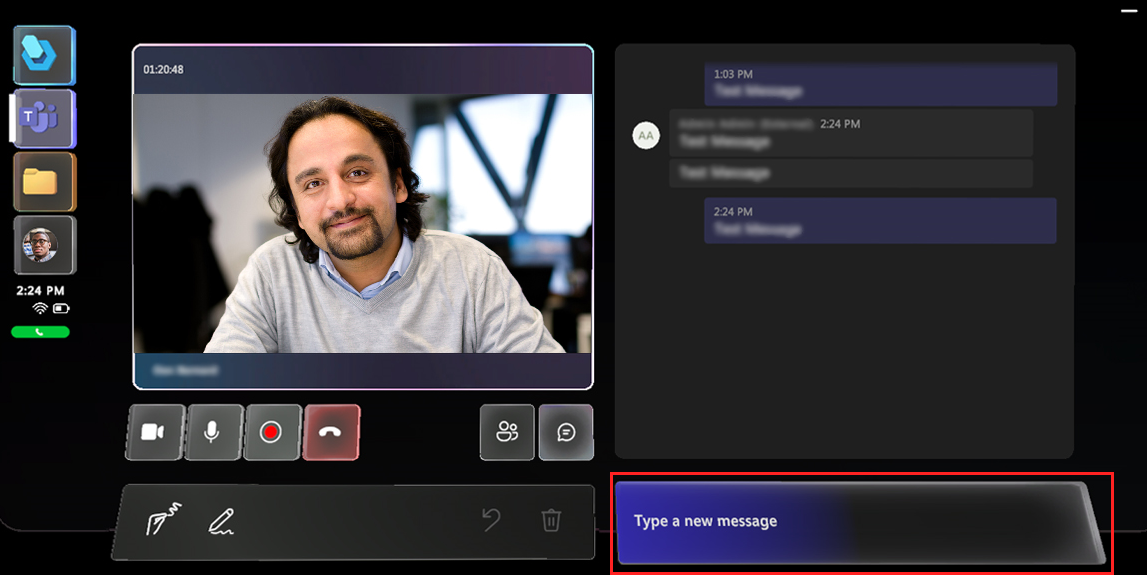
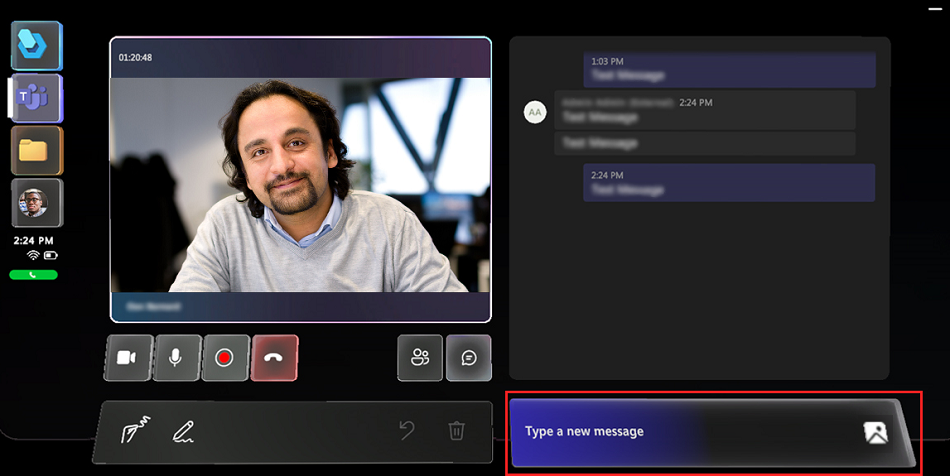
Add screens and review comments

diff --git a/mr-docs/guides/calling-photos.md b/mr-docs/guides/calling-photos.md
@@ -11,11 +11,11 @@ ms.custom: bap-template
 
 # Capture and share photos
 
-HoloLens users can take photos and share photos during a call or meeting.
+HoloLens users can take photos at any time and share photos through chat during a call or meeting.
 
 ## Take a photo
 
-You can take a photo of your mixed reality annotations during a call or take a photo of a piece of equipment to share. For example, send a photo to your remote collaborators so that they can clearly see an intricate part of the machine or a machine tag with small characters. You can take a photo at any time with the HoloLens, even when Guides is closed.
+You can take a photo of your mixed reality annotations during a call or take a photo of a piece of equipment to share. For example, send a photo to your remote collaborators so that they can clearly see an intricate part of the machine or a machine tag with small characters. You can take a photo at any time with the HoloLens, even when Guides is closed. The photo includes anything you can see through your HoloLens at the time you take the photo, including holograms.
 
 To take a picture of your current view in the HoloLens, press the volume up and volume down buttons on your HoloLens at the same time (or say, "Take a picture” or “Take a photo”). The photo is saved to the device. For more information, see [Capture a mixed reality photo](/hololens/holographic-photos-and-videos#capture-a-mixed-reality-photo).
 
@@ -23,15 +23,21 @@ To take a picture of your current view in the HoloLens, press the volume up and 
 
 HoloLens users can share photos from the HoloLens device during a call or meeting directly within chat.
 
-1. While [on a call](calling-start-call.md) or meeting, select the **Chat** button.
+1. While [on a call](calling-start-call.md) or meeting, select the **Chat** :::image type="icon" source="media/chat-button.png"::: button.
 
    A new Chat window appears to the right of the video feed.
 
+   :::image type="content" source="media/calling-chat-file-sharing-3.png" alt-text="Screenshot highlighting where to enter message and Gallery icon":::
+
 1. In the message window, select the **Gallery** icon. The images from your device display.
 
-1. Use the scroll up and down arrows to scroll through your images. Select the images you want to share, up to 6, and then select **Next**. The selected files are uploaded.
+1. Use the scroll up and down arrows to scroll through your images. Select the images you want to share, up to 6.
 
-After the files are uploaded, a sent message displays and the photos are shared in the chat with others on the call.
+   :::image type="content" source="media/calling-chat-share-photos.png" alt-text="Screenshot showing selected photos from the HoloLens camera roll":::
+
+1. Select the **Next** icon. The selected files are uploaded.
+
+   After the files are uploaded, a sent message displays and the photos are shared in the chat with others on the call.
 
 > [!TIP]
 > All call participants at the time the photos are shared have read permission. Participants joining later may not be able to access the photos. If they can’t access the photos, they are prompted to request permission to gain access to the photos.

diff --git a/mr-docs/guides/main-menu.md b/mr-docs/guides/main-menu.md
@@ -22,7 +22,7 @@ The following table describes each button on the **Main** menu.
 |Button|Description|
 |--------|-------------------------------------------------------------------------------------------------|
 |![Work activity button.](media/main-menu-work-activity1-button.JPG "Work activity button")|Select and open a guide or search for a guide.|
-|![Communications button.](media/main-menu-communications1-button.JPG "Communications button")|Call a Microsoft Teams collaborator. When you're on a call, you can chat, share files, screens, or annotations, and record the call.|
+|![Teams button.](media/main-menu-communications1-button.JPG "Teams button")|Call a Microsoft Teams collaborator. When you're on a call, you can chat, share files, screens, or annotations, and record the call.|
 |![Files button.](media/main-menu-files1-button.JPG "Settings button")|Open a OneDrive for Business file. |
 |![Profile button.](media/main-menu-profile1-button.JPG "Profile button")| Access your profile settings or sign out.|
 

diff --git a/mr-docs/guides/calling-start-call.md b/mr-docs/guides/calling-start-call.md
@@ -19,9 +19,9 @@ Start a call from your HoloLens. See [Types of calls](calling-concepts.md) for m
 
 ### Start a one-to-one call with a Teams contact in your organization
 
-1. Look at the palm of your hand to open the **Main** menu, and then select the **Communications** button.
+1. Look at the palm of your hand to open the **Main** menu, and then select the **Teams** button.
 
-   :::image type="content" source="media/calling-meetings-1.JPG" alt-text="Screenshot of Communications button on Main menu.":::
+   :::image type="content" source="media/calling-meetings-1.JPG" alt-text="Screenshot of Teams button on Main menu.":::
 
 1. Do one of the following:
 

diff --git a/mr-docs/guides/calling-meetings.md b/mr-docs/guides/calling-meetings.md
@@ -23,7 +23,7 @@ It's also possible to join a [Microsoft Teams live event](/microsoftteams/teams-
 
 1. Look at the palm of your hand to open the **Main** menu, and then select the **Teams** button.
 
-    ![Screenshot of Communications button on Main menu.](media/calling-meetings-1.JPG "Screenshot of Communications button on Main menu.")
+    ![Screenshot of Teams button on Main menu.](media/calling-meetings-1.JPG "Screenshot of Teams button on Main menu.")
 
 1. Select **Meetings**.
 

diff --git a/mr-docs/guides/calling-chat-file-sharing.md b/mr-docs/guides/calling-chat-file-sharing.md
@@ -20,7 +20,7 @@ When a Microsoft Dynamics 365 Guides user on HoloLens is on a call with one or m
 
 ## Start a chat from Dynamics 365 Guides
 
-1. Select the **Chat** button to start a chat.
+1. From the **Main** menu, select **Teams**. Then, select the **Chat** button to start a chat.
 
     > [!NOTE]
     > If you receive a chat invite from a remote collaborator, a red circle appears on the **Chat** button and the **Chat** button animates.
